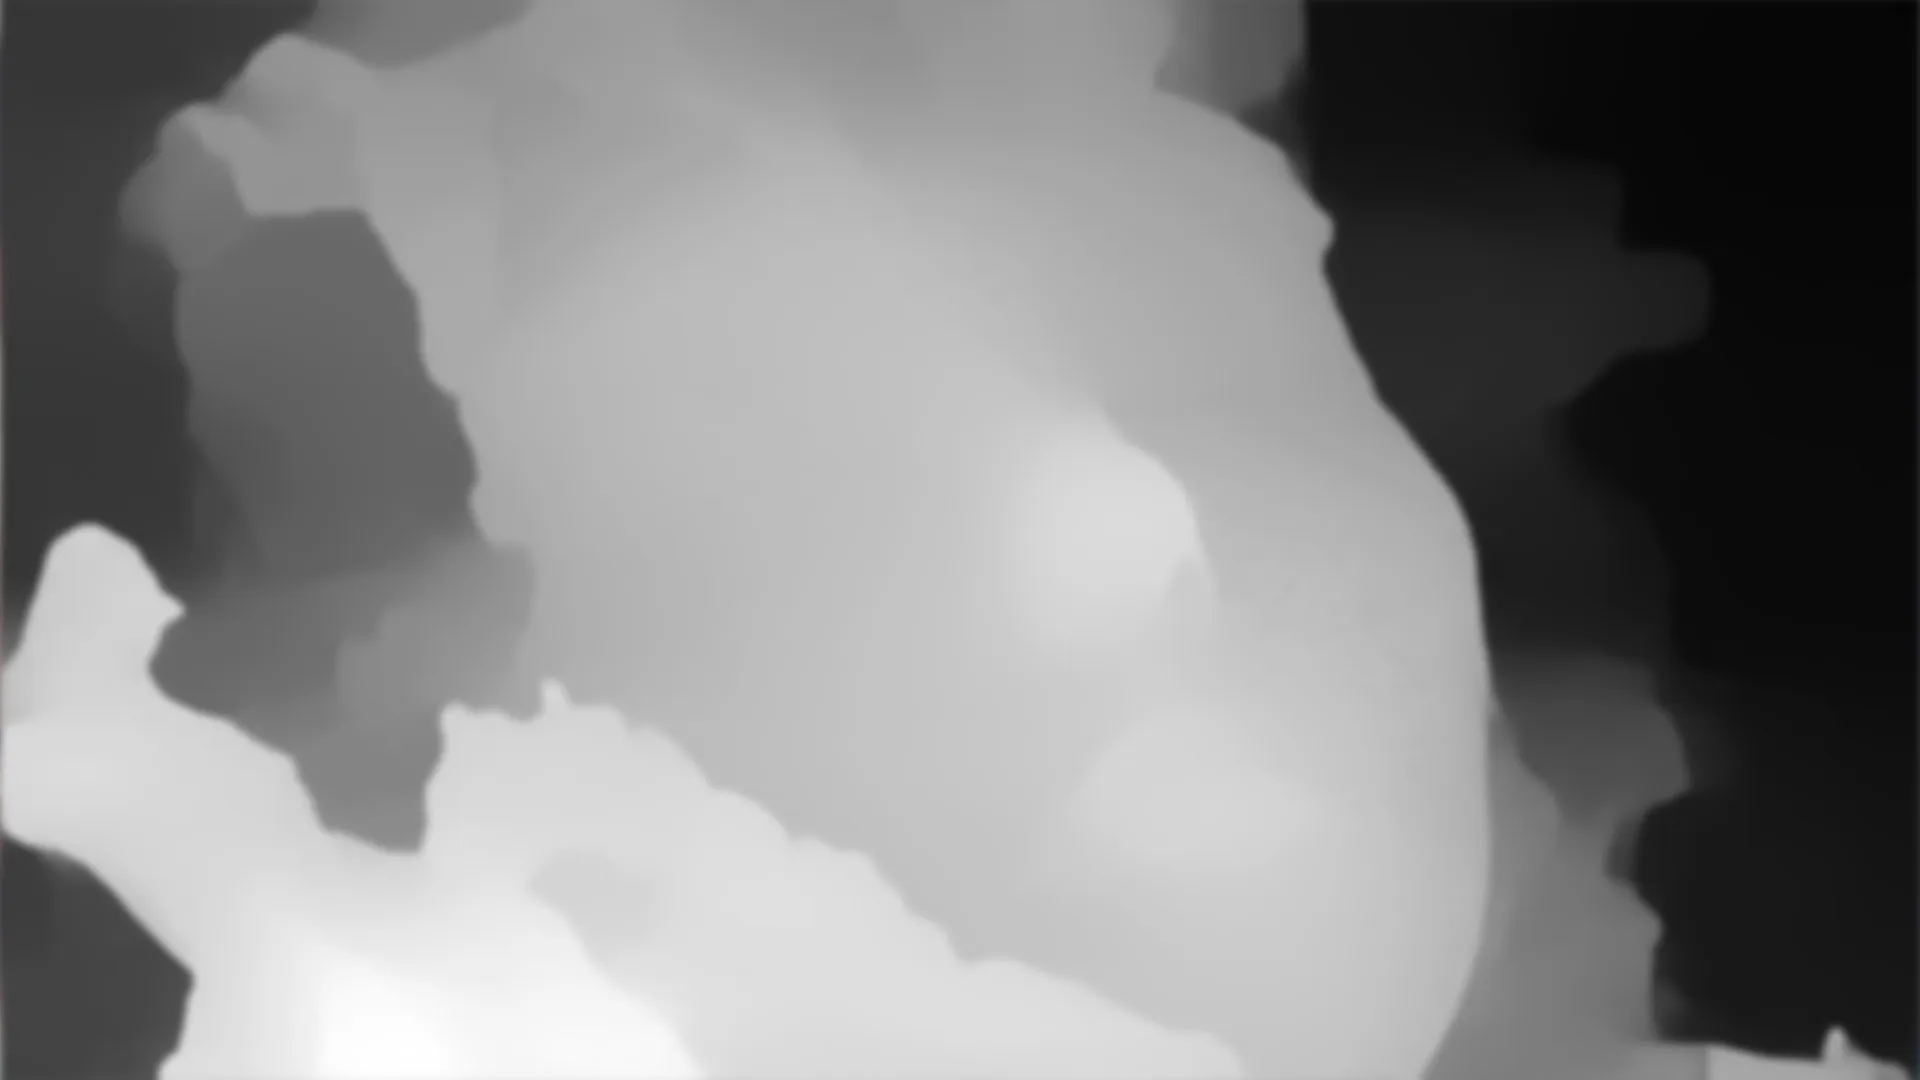
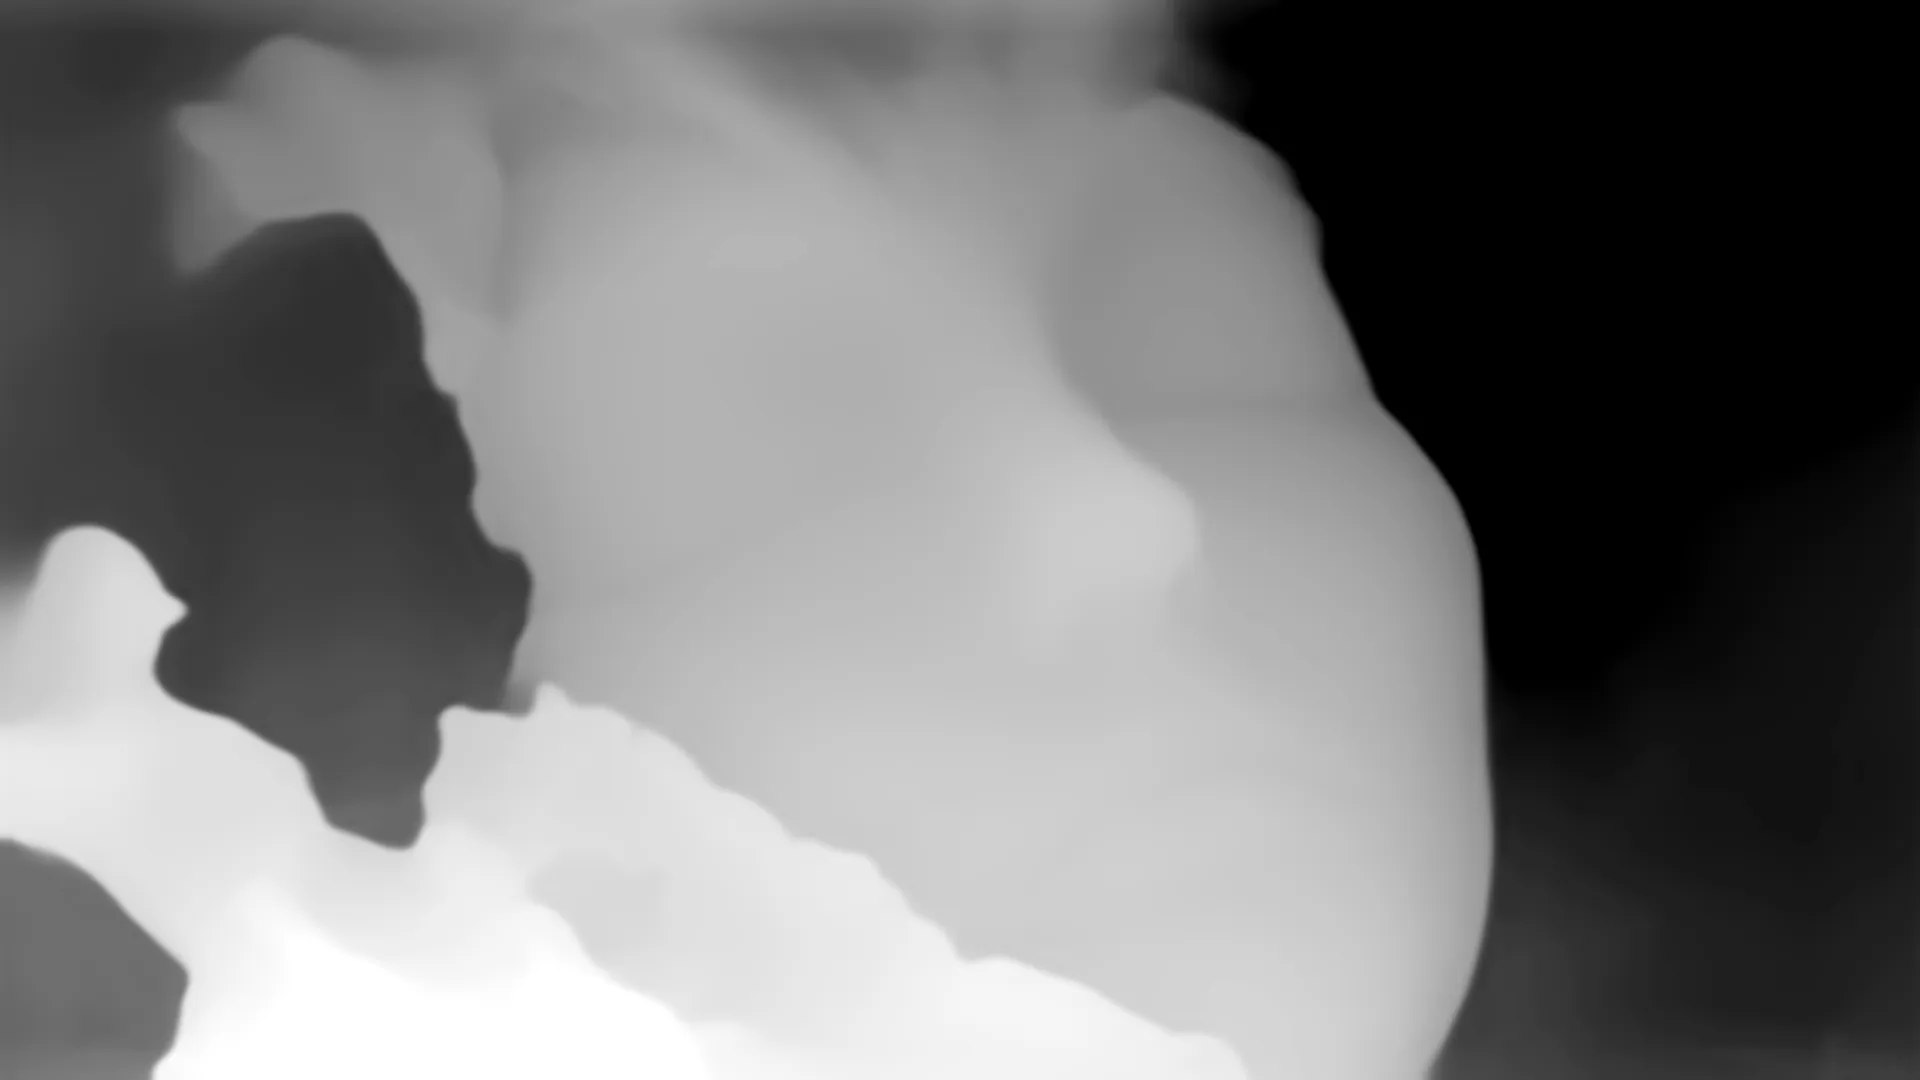
galleryItems: generate & include depth images / ai images

diff --git a/src/constants/index.js b/src/constants/index.js
@@ -1,47 +1,100 @@
+//depth images: https://app.artificialstudio.ai/tools/image-depth-map-generator
+
 export const galleryItems = [
+  // Mujeres expresivas / humanas
   {
     title: "Ethereal Awakening",
-    // description:
-    // "An artistic journey through stone and light. This surreal visual piece explores the boundary between sculpture and dream, where texture breathes and stillness evolves.",
     depthImg: "/images/depth/woman_depth.webp",
     fake3dImg: "/images/fake3d/woman_fake3d.webp",
   },
   {
-    title: "Ancient Reverie",
-    // description:
-    // "A cracked visage frozen in time — this piece captures the fragile beauty of decay, where color and erosion merge into an otherworldly calm.",
-    depthImg: "/images/depth/ancient_depth.webp",
-    fake3dImg: "/images/fake3d/ancient_fake3d.webp",
+    title: "Ethereal Glow",
+    fake3dImg: "/images/fake3d/woman2_fake3d.webp",
+    depthImg: "/images/depth/woman2_depth.webp",
   },
   {
-    title: "Spirit of the Dragon",
-    // description:
-    // "A vivid exploration of mythical energy and motion, sculpted in color and texture. The dragon’s roar reverberates through a whirlwind of carved clouds and flowing shapes.",
+    title: "Inferno Woman",
+    fake3dImg: "/images/fake3d/human_fake3d.webp",
+    depthImg: "/images/depth/human_depth.webp",
+  },
+  {
+    title: "Sweet Slumber",
+    fake3dImg: "/images/fake3d/human2_fake3d.webp",
+    depthImg: "/images/depth/human2_depth.webp",
+  },
+
+  // Fantasía / criaturas míticas
+  {
+    title: "Draconic Soul",
     depthImg: "/images/depth/dragon_depth.webp",
     fake3dImg: "/images/fake3d/dragon_fake3d.webp",
   },
-
-  /* --- Nuevos que enviaste --- */
-
   {
-    title: "Celestial Machine",
-    // description:
-    // "A serene biomechanical entity gazing into the horizon. This piece blends purity of form with intricate machinery, evoking a futuristic sense of calm intelligence.",
+    title: "Ancient Reverie",
+    depthImg: "/images/depth/ancient_depth.webp",
+    fake3dImg: "/images/fake3d/ancient_fake3d.webp",
+  },
+
+  // Animales majestuosos
+  {
+    title: "Stoneborn Beast",
+    depthImg: "/images/depth/lion_depth.webp",
+    fake3dImg: "/images/fake3d/lion_fake3d.webp",
+  },
+  {
+    title: "Majestic Lion",
+    fake3dImg: "/images/fake3d/lion2_fake3d.webp",
+    depthImg: "/images/depth/lion2_depth.webp",
+  },
+
+  // Animales lúdicos / coloridos
+  {
+    title: "Rainbow Unicorn",
+    fake3dImg: "/images/fake3d/unicorn_fake3d.webp",
+    depthImg: "/images/depth/unicorn_depth.webp",
+  },
+  {
+    title: "Frog Beats",
+    fake3dImg: "/images/fake3d/frog_fake3d.webp",
+    depthImg: "/images/depth/frog_depth.webp",
+  },
+  {
+    title: "Papercraft Pup",
+    fake3dImg: "/images/fake3d/dog_fake3d.webp",
+    depthImg: "/images/depth/dog_depth.webp",
+  },
+  {
+    title: "Crafted Kitty",
+    fake3dImg: "/images/fake3d/cat2_fake3d.webp",
+    depthImg: "/images/depth/cat2_depth.webp",
+  },
+  {
+    title: "Whimsical Zebra",
+    fake3dImg: "/images/fake3d/zebra2_fake3d.webp",
+    depthImg: "/images/depth/zebra2_depth.webp",
+  },
+
+  // Robots / mecánicos
+  {
+    title: "Sentinel of the Skies",
     depthImg: "/images/depth/robot_depth.webp",
     fake3dImg: "/images/fake3d/robot_fake3d.webp",
   },
+
+  // Cosmo / alienígenas
   {
-    title: "Sentinel of the Skies",
-    // description:
-    // "A guardian-like android sculpted with smooth surfaces and glowing eyes. The artwork captures a harmonious balance between technology, elegance, and silent vigilance.",
-    depthImg: "/images/depth/robot2_depth.webp",
-    fake3dImg: "/images/fake3d/robot2_fake3d.webp",
+    title: "Cosmic Cuteness",
+    fake3dImg: "/images/fake3d/baby_stelar_fake3d.webp",
+    depthImg: "/images/depth/baby_stelar_depth.webp",
   },
   {
-    title: "Stoneborn Beast",
-    // description:
-    // "An intricate carved lion emerging from layers of stylized stone. Its expression radiates power and ancient wisdom, blending organic presence with abstract geometry.",
-    depthImg: "/images/depth/lion_depth.webp",
-    fake3dImg: "/images/fake3d/lion_fake3d.webp",
+    title: "Rainbow Alien",
+    fake3dImg: "/images/fake3d/alien_fake3d.webp",
+    depthImg: "/images/depth/alien_depth.webp",
+  },
+  {
+    title: "Pink Alien",
+    fake3dImg: "/images/fake3d/alien2_fake3d.webp",
+    depthImg: "/images/depth/alien2_depth.webp",
   },
 ];

diff --git a/convert-png-to-webp.js b/convert-png-to-webp.js
@@ -1,0 +1,42 @@
+import fs from "fs";
+import path from "path";
+import sharp from "sharp";
+import { fileURLToPath } from "url";
+
+// Para obtener __dirname en ESM
+const __filename = fileURLToPath(import.meta.url);
+const __dirname = path.dirname(__filename);
+
+const inputDir = path.join(__dirname, "public/images/png");
+const outputDir = path.join(__dirname, "public/images/depth");
+
+if (!fs.existsSync(outputDir)) {
+  fs.mkdirSync(outputDir, { recursive: true });
+}
+
+fs.readdir(inputDir, async (err, files) => {
+  if (err) {
+    console.error("Error leyendo el directorio:", err);
+    return;
+  }
+
+  for (const file of files) {
+    const ext = path.extname(file).toLowerCase();
+    if (ext !== ".png") continue; // solo procesar PNG
+
+    const baseName = path.basename(file, ext);
+    let outputFile = path.join(outputDir, `${baseName}.webp`);
+
+    // Manejar conflictos de nombres agregando *
+    while (fs.existsSync(outputFile)) {
+      outputFile = path.join(outputDir, `${baseName}*.webp`);
+    }
+
+    try {
+      await sharp(path.join(inputDir, file)).webp().toFile(outputFile);
+      console.log(`Convertido: ${file} → ${path.basename(outputFile)}`);
+    } catch (error) {
+      console.error(`Error convirtiendo ${file}:`, error);
+    }
+  }
+});

diff --git a/convert-to-webp.js b/convert-to-webp.js
@@ -1,0 +1,34 @@
+import fs from "fs";
+import path from "path";
+import sharp from "sharp";
+
+const inputDir = path.join("public", "images", "jpg");
+const outputDir = path.join("public", "images", "fake3d");
+
+// Crear carpeta destino si no existe
+if (!fs.existsSync(outputDir)) {
+  fs.mkdirSync(outputDir, { recursive: true });
+}
+
+async function convertImages() {
+  const files = fs.readdirSync(inputDir);
+
+  for (const file of files) {
+    if (path.extname(file).toLowerCase() === ".jpg") {
+      const baseName = path.basename(file, ".jpg");
+      const outputName = `${baseName}_fake3d.webp`;
+      const inputPath = path.join(inputDir, file);
+      const outputPath = path.join(outputDir, outputName);
+
+      try {
+        await sharp(inputPath).webp({ quality: 90 }).toFile(outputPath);
+
+        console.log(`✔ Convertida: ${file} → ${outputName}`);
+      } catch (err) {
+        console.error(`❌ Error al convertir ${file}:`, err);
+      }
+    }
+  }
+}
+
+convertImages();
